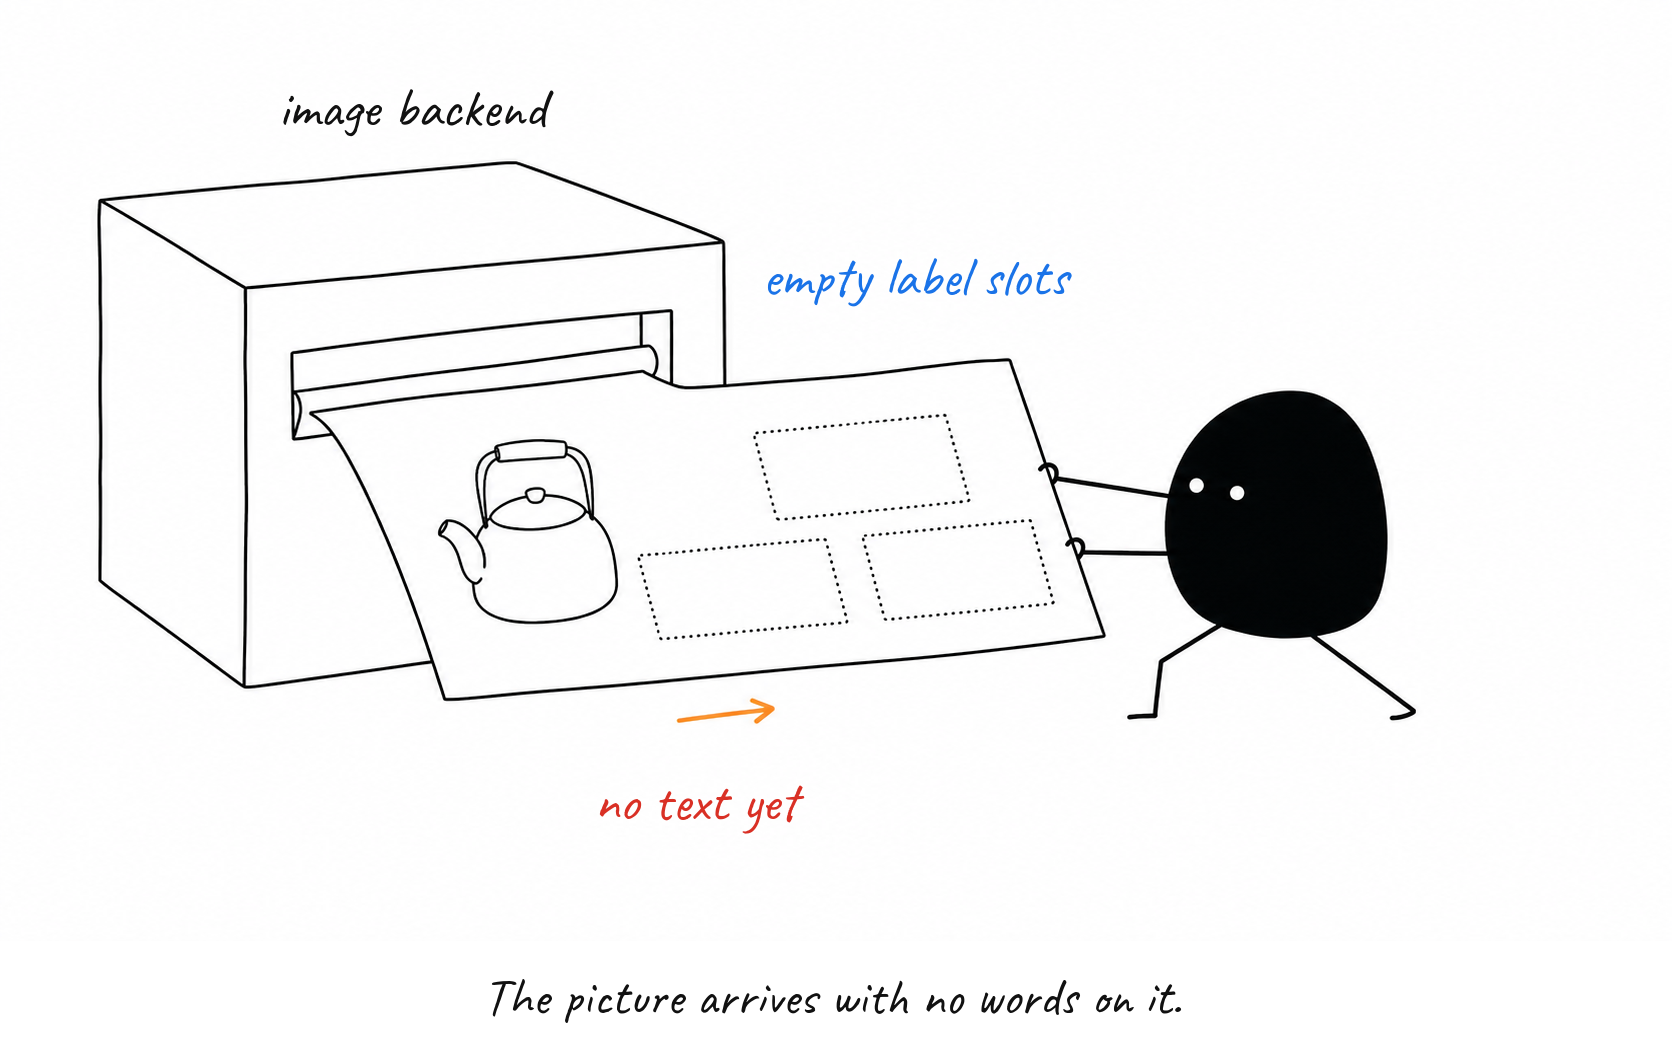
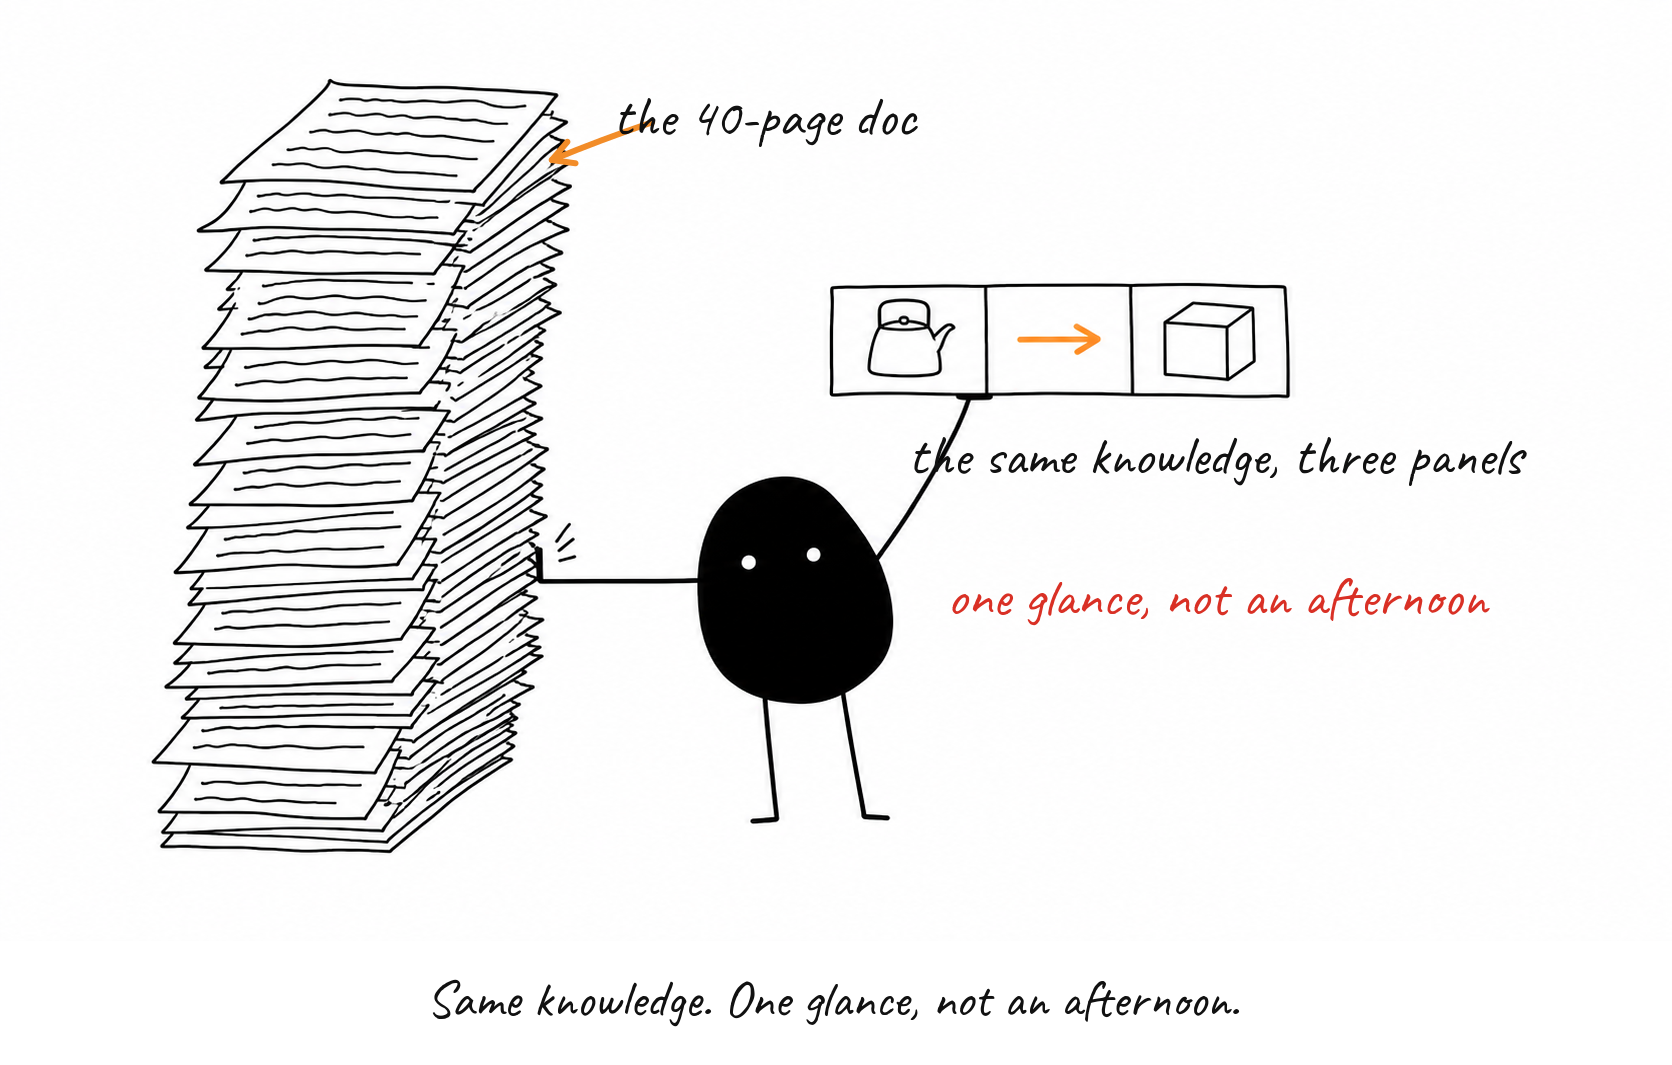
feat(backend): codex install/login onboarding, README motivation, new hero (#2)
## What

- `detectBackend` probes `codex --version` (needs >= 0.149) and `codex
login status`. When codex is missing, too old or signed out it falls
back to `manual` and the `backend:` line says exactly what to install or
run. Pinned `backend: codex` throws with the same guidance.
- `/show-me-how:init` step 3: if codex isn't ready, asks once whether
the user has a paid ChatGPT plan; walks through install (with
permission) / `codex login` (user runs it), or pins `backend: manual`.
- README: new **Why this exists** section, backend requirements table
(paid ChatGPT plan needed for codex's image tool; Free/API-key users use
manual), install snippet.
- New `examples/hero.png` that pictures the motivation, generated with
the plugin's own pipeline (prompt in `assets/hero-prompt.txt`).

## Checklist

- [x] `npm test` passes locally (55/55)
- [x] Docs / README updated
- [x] No unrelated changes bundled in

diff --git a/README.md b/README.md
@@ -9,9 +9,15 @@
 
 Explain code, features and PRs with mascot-illustrated plain-language docs. Hand-drawn style, your brand, your font.
 
-A Claude Code plugin. Point it at a feature, a folder, or a topic; it reads the code, breaks it into story beats (as many as it needs), has a mascot act them out in hand-drawn style, and writes a short storybook with the panels in sequence. Works with your ChatGPT subscription (via the Codex CLI) or with any image tool by hand.
+A Claude Code plugin. Point it at a feature, a folder, or a topic; it reads the code, breaks it into story beats (as many as it needs), has a mascot act them out in hand-drawn style, and writes a short storybook with the panels in sequence. Works with a paid ChatGPT plan (via the Codex CLI) or with any image tool by hand.
 
 ![example](examples/hero.png)
+
+## Why this exists
+
+I have a bit of ADHD. A long design doc or a dense README is hard for me to get through, even when I care about what's in it; the attention runs out before the paragraphs do. A picture of the idea, with a mascot acting it out, works for me like nothing else: I get it in one glance and it sticks.
+
+That's what this tool is for. It's aimed at dev teams: people working on different features of the same project, or on different projects, who need to hand knowledge to each other. Instead of sharing a long document nobody finishes, you share a short storyboard: three to six panels, one caption each, that explain the feature, the PR or the concept. It's for the teammate who joins next week, the reviewer with 10 minutes, and anyone who reads the way I do.
 
 ## Install
 
@@ -41,7 +47,21 @@ claude --plugin-dir .
 
 ## Backends
 
-v1 tries, in order: `codex` CLI (ChatGPT subscription, auto-detected on PATH), then falls back to manual — a prompt file is written for you to paste into ChatGPT/Gemini and save back.
+| Backend | Needs | Cost | How it's chosen |
+|---|---|---|---|
+| `codex` | [Codex CLI](https://github.com/openai/codex) >= 0.149 on PATH, signed in with a **paid ChatGPT plan** (Plus or higher) | covered by your ChatGPT plan | auto-detected when installed, current and logged in |
+| `manual` | any image tool you already use (ChatGPT, Gemini, ...) | none | the fallback; a prompt file is written for you to paste and save back |
+
+Codex's built-in image tool is only available to paid ChatGPT logins; ChatGPT Free accounts and API-key logins can install codex but won't get images from it, so they should use `manual`.
+
+Installing codex, if you have a paid plan:
+
+```bash
+npm i -g @openai/codex
+codex login          # opens a browser
+```
+
+The plugin never installs codex by itself. `/show-me-how:init` checks for it and, if it's missing, too old or signed out, asks whether you want to set it up or stay on `manual`. Every command prints a `backend:` line with the same hint, so you're never left guessing why a run produced prompt files instead of pictures.
 
 Pin one instead of auto-detecting by setting `backend:` in `design.md` (`auto`, `codex`, or `manual`); `codex_model:` and `codex_reasoning:` in the same section tune which codex model runs the job and how hard it thinks (default: codex's own model at `low` effort).
 

diff --git a/skills/init/SKILL.md b/skills/init/SKILL.md
@@ -30,6 +30,16 @@ Copy `${CLAUDE_PLUGIN_ROOT}/templates/design.md` to `REPO/design.md` and edit in
 
 1. If `${CLAUDE_PLUGIN_ROOT}/node_modules/sharp` is missing, run `npm install --silent` with cwd `${CLAUDE_PLUGIN_ROOT}`.
 2. `node "${CLAUDE_PLUGIN_ROOT}/scripts/backend.mjs" detect --cwd "REPO"` -> prints `backend: ...`. Show that line to the user verbatim.
+3. If the line starts with `backend: codex`, continue to step 4. Otherwise it starts with `backend: manual (codex not found)` or `backend: manual (codex found but ...)`; ask **one** question (AskUserQuestion if available, else plain text):
+
+   "Automatic images need the Codex CLI signed in with a **paid ChatGPT plan** (Plus or higher). Codex's image tool is not available on Free or API-key accounts. (a) I have a paid plan -- help me set up codex. (b) No / not now -- write prompt files I paste into ChatGPT or Gemini myself (manual)."
+
+   - (a): fix only what the detect line said is missing, in this order, then rerun detect and show the new line:
+     - not found -> run `npm i -g @openai/codex` yourself (ask permission first), then re-check.
+     - too old -> run `npm i -g @openai/codex@latest` yourself (ask permission first), then re-check.
+     - not logged in -> `codex login` is interactive and opens a browser, so you cannot run it. Tell the user to run it in their terminal (in Claude Code: `! codex login`), wait for them to say it is done, then re-check.
+     If detect still does not say `backend: codex` after one round, say so, leave `backend: auto` in `design.md` (codex is picked up whenever it becomes ready) and continue with manual for the test image.
+   - (b): set `backend: manual` in the `## Output` section of `REPO/design.md` so later runs stop repeating the codex hint. They can change it back to `auto` any time.
 
 ## 4. Test image
 

diff --git a/skills/illustrate/SKILL.md b/skills/illustrate/SKILL.md
@@ -29,7 +29,7 @@ Read once, before drawing: `references/style-dna.md`, `references/composition-pa
 Before any script call below: if `${CLAUDE_PLUGIN_ROOT}/node_modules/sharp` is missing, run `npm install --silent` with cwd `${CLAUDE_PLUGIN_ROOT}` first.
 
 1. `node "${CLAUDE_PLUGIN_ROOT}/scripts/design.mjs" "REPO"` -> JSON (`mascot`, `font`, `colors`, `tone`, `output.docs`, `output.backend`). If `REPO/design.md` does not exist, say once: "No design.md found; using Flow + Caveat defaults. Run /show-me-how:init to customize."
-2. `node "${CLAUDE_PLUGIN_ROOT}/scripts/backend.mjs" detect --cwd "REPO"` -> prints `backend: ...`. Echo that line to the user verbatim. If the command errors instead of printing `backend:`, show the error; it means `design.md` pins a backend that is not installed. Ask them to install it or set `backend: auto`, then stop.
+2. `node "${CLAUDE_PLUGIN_ROOT}/scripts/backend.mjs" detect --cwd "REPO"` -> prints `backend: ...`. Echo that line to the user verbatim; it already carries the install / login hint when codex is missing, outdated or signed out, so do not add advice of your own. If the command errors instead of printing `backend:`, show the error; it means `design.md` pins `codex` but codex is not usable (not installed, too old, or not logged in). Ask them to fix that or set `backend: auto`, then stop.
 3. `node "${CLAUDE_PLUGIN_ROOT}/scripts/slug.mjs" "<TOPIC>"` -> `SLUG`.
    - `DIR` = `<design.output.docs>` joined with `SLUG` with exactly one `/` between them (`output.docs` may end in `/`) (e.g. `docs/show-me-how/label-overlay`), or `OUTDIR` if the brief block has one.
    - `DOC` = `DIR/SLUG.md` (e.g. `docs/show-me-how/label-overlay/label-overlay.md`).

diff --git a/skills/illustrate/references/backends.md b/skills/illustrate/references/backends.md
@@ -2,10 +2,12 @@
 
 Run once per session: `node "${CLAUDE_PLUGIN_ROOT}/scripts/backend.mjs" detect --cwd "REPO"` (`REPO` = the repo root) and echo its line to the user.
 
-| Backend | When | Cost | Refs |
+| Backend | When | Needs | Refs |
 |---|---|---|---|
-| codex | `codex` on PATH | ChatGPT subscription | yes (`--ref`) |
-| manual | otherwise | none | user's tool |
+| codex | `codex` >= 0.149 on PATH **and** `codex login` done | paid ChatGPT plan (Plus or higher) -- codex's image tool is not available on Free or API-key logins | yes (`--ref`) |
+| manual | otherwise | any image tool the user has (ChatGPT, Gemini, ...) | user's tool |
+
+`detect` probes `codex --version` and `codex login status`; when codex is absent, too old or signed out it falls back to manual and the printed line says what to install or run. Codex is never installed on the user's behalf -- `/show-me-how:init` asks first.
 
 Generate one panel (`<scratch>` = `<repo>/.show-me-how/<slug>`):
 ```

diff --git a/examples/README.md b/examples/README.md
@@ -3,8 +3,8 @@
 Two real runs of show-me-how on this repo, codex backend (`codex` 0.149.0,
 ChatGPT subscription), default Flow + Caveat brand. Working files (prompts,
 unlabelled generations) live in `.show-me-how/` during a run and are deleted
-afterwards; only the storybook ships. `hero.png` is the repo showcase image,
-copied from the first example.
+afterwards; only the storybook ships. `hero.png` is the repo showcase image: a one-off panel drawn with the same
+pipeline (prompt at `assets/hero-prompt.txt`) to picture the motivation in the README.
 
 **`explain-label-overlay/`** — `/show-me-how:explain label overlay`, on how
 `scripts/label.mjs` puts words onto a finished picture. `explain` shows the
